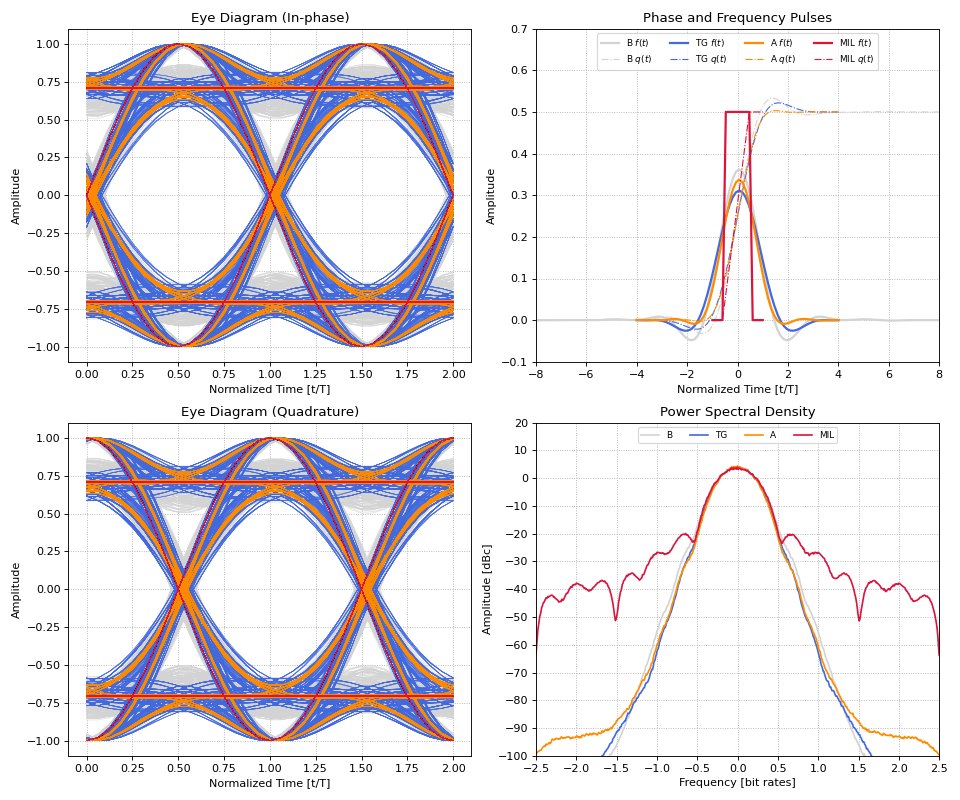
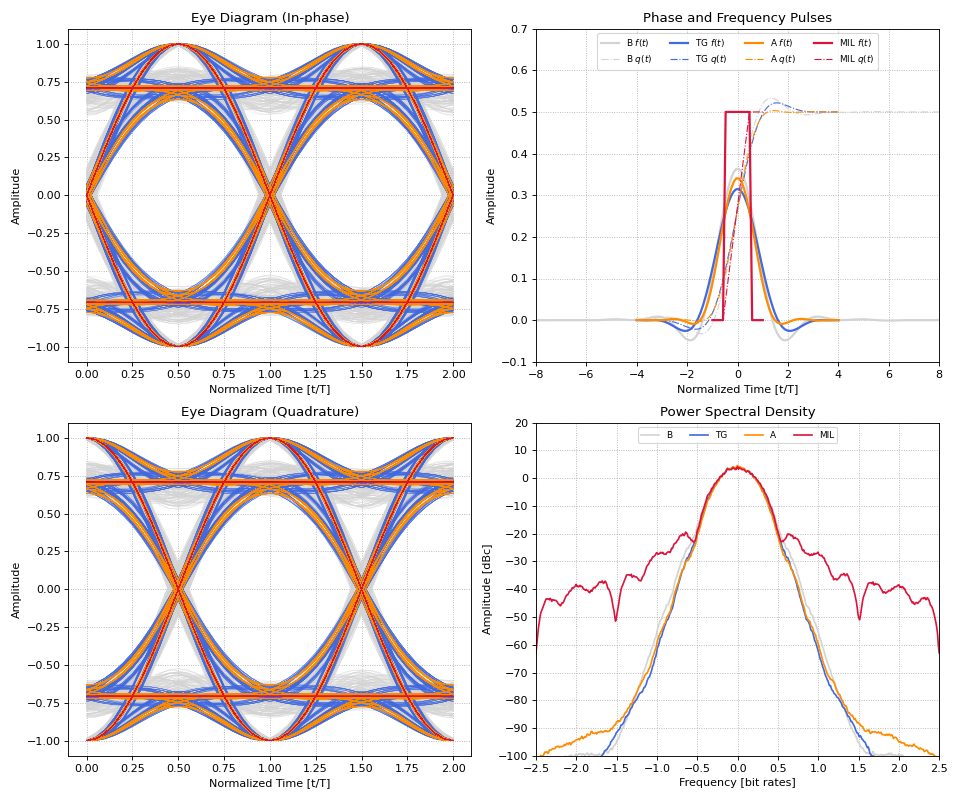
WIP fixing alignment of things.

diff --git a/waveforms/cpm/modulate.py b/waveforms/cpm/modulate.py
@@ -61,7 +61,7 @@ def cpm_modulate(
     mod_index: float | NDArray[np.float64],
     pulse_filter: NDArray[np.float64],
     sps: int = 8,
-) -> tuple[NDArray[np.float64], NDArray[np.float64]]:
+) -> tuple[NDArray[np.float64], NDArray[np.complex128]]:
     """Generic CPM Modulation.
 
     Args:
@@ -80,7 +80,7 @@ def cpm_modulate(
         mod_index = np.array(mod_index, dtype=np.float64)
 
     # Normalized time array
-    num_points = symbols.size * sps
+    num_points = (symbols.size + 1) * sps
     normalized_time = np.linspace(
         0,
         symbols.size + 1,
@@ -95,9 +95,9 @@ def cpm_modulate(
 
     # Interpolate symbols
     interpolated_soft_symbols = np.zeros(num_points, dtype=np.float64)
-    interpolated_soft_symbols[::sps] = symbols * mod_index
+    interpolated_soft_symbols[sps:-1:sps] = symbols * mod_index
 
     # Phase modulate signal
-    freq_pulses = np.convolve(interpolated_soft_symbols, pulse_filter, mode="full")
-    modulated_signal = frequency_modulate(freq_pulses, sps=sps, initial_phase=0)
+    freq_pulses = np.convolve(interpolated_soft_symbols, pulse_filter, mode="same")
+    modulated_signal = frequency_modulate(freq_pulses, sps=sps, initial_phase=np.pi/4)
     return normalized_time, modulated_signal

diff --git a/examples/soqpsk_example.py b/examples/soqpsk_example.py
@@ -19,15 +19,15 @@ from waveforms.viz import eye_diagram
 
 rng = np.random.Generator(np.random.PCG64())
 
-PN_DEGREE = 13
+PN_DEGREE = 14
 DATA_GEN = PNSequence(PN_DEGREE)
-DATA_BUFFER = np.packbits([DATA_GEN.next_bit() for _ in range(2**PN_DEGREE - 1)])
+DATA_BUFFER = np.packbits(DATA_GEN.generate_sequence())
 j = complex(0, 1)
 
 
 if __name__ == "__main__":
     # Constants
-    sps = 20
+    sps = 10
     fft_size = 2**10
     mod_index = 1 / 2
     pulse_pad = 0.5
@@ -62,6 +62,7 @@ if __name__ == "__main__":
             pulse_filter=pulse_filter,
             sps=sps,
         )
+        # modulated_signal[:] = modulated_signal * np.exp(-1*j*np.pi/4)
         signal_dict[label] = modulated_signal[:]
         normalized_time /= 2  # SOQPSK symbols are spaced at T/2
         eye_diagram(

diff --git a/waveforms/glfsr/pn.py b/waveforms/glfsr/pn.py
@@ -91,8 +91,19 @@ def generate_mask(degree: int) -> int:
 
 class PNSequence(GLFSR):
     def __init__(self, degree: int) -> None:
+        self.degree = degree
         super().__init__(generate_mask(degree), (1 << degree) - 1)
 
+    def generate_sequence(self) -> list[int]:
+        """Generates the full GLFSR sequence.
+
+        Args:
+            None
+
+        Returns:
+            list[int]: Sequence of bits.
+        """
+        return [self.next_bit() for _ in range(2**self.degree - 1)]
 
 if __name__ == "__main__":
     import numpy as np

diff --git a/examples/soqpsk_detection.py b/examples/soqpsk_detection.py
@@ -26,7 +26,7 @@ rng = np.random.Generator(np.random.PCG64(seed=1))
 
 PN_DEGREE = 15
 DATA_GEN = PNSequence(PN_DEGREE)
-DATA_BUFFER = np.packbits([DATA_GEN.next_bit() for _ in range(2**PN_DEGREE - 1)])
+DATA_BUFFER = np.packbits(DATA_GEN.generate_sequence())
 j = complex(0, 1)
 
 

diff --git a/examples/irig_comparison.py b/examples/irig_comparison.py
@@ -31,7 +31,7 @@ rng = np.random.Generator(np.random.PCG64())
 
 PN_DEGREE = 15
 DATA_GEN = PNSequence(PN_DEGREE)
-DATA_BUFFER = np.packbits([DATA_GEN.next_bit() for _ in range(2**PN_DEGREE - 1)])
+DATA_BUFFER = np.packbits(DATA_GEN.generate_sequence())
 j = complex(0, 1)
 
 

diff --git a/examples/pcmfm_test.py b/examples/pcmfm_test.py
@@ -20,7 +20,7 @@ rng = np.random.Generator(np.random.PCG64())
 
 PN_DEGREE = 15
 DATA_GEN = PNSequence(PN_DEGREE)
-DATA_BUFFER = np.packbits([DATA_GEN.next_bit() for _ in range(2**PN_DEGREE - 1)])
+DATA_BUFFER = np.packbits(DATA_GEN.generate_sequence())
 j = complex(0, 1)
 
 

diff --git a/waveforms/cpm/soqpsk/pulse_filters.py b/waveforms/cpm/soqpsk/pulse_filters.py
@@ -32,7 +32,7 @@ def freq_pulse_soqpsk(
         tau_max,
         num=int(tau_max * sps * 2),
         dtype=np.float64,
-        endpoint=False,
+        endpoint=True,
     )
     g = (
         np.cos(np.pi * rho * b * t_norm / 2)
